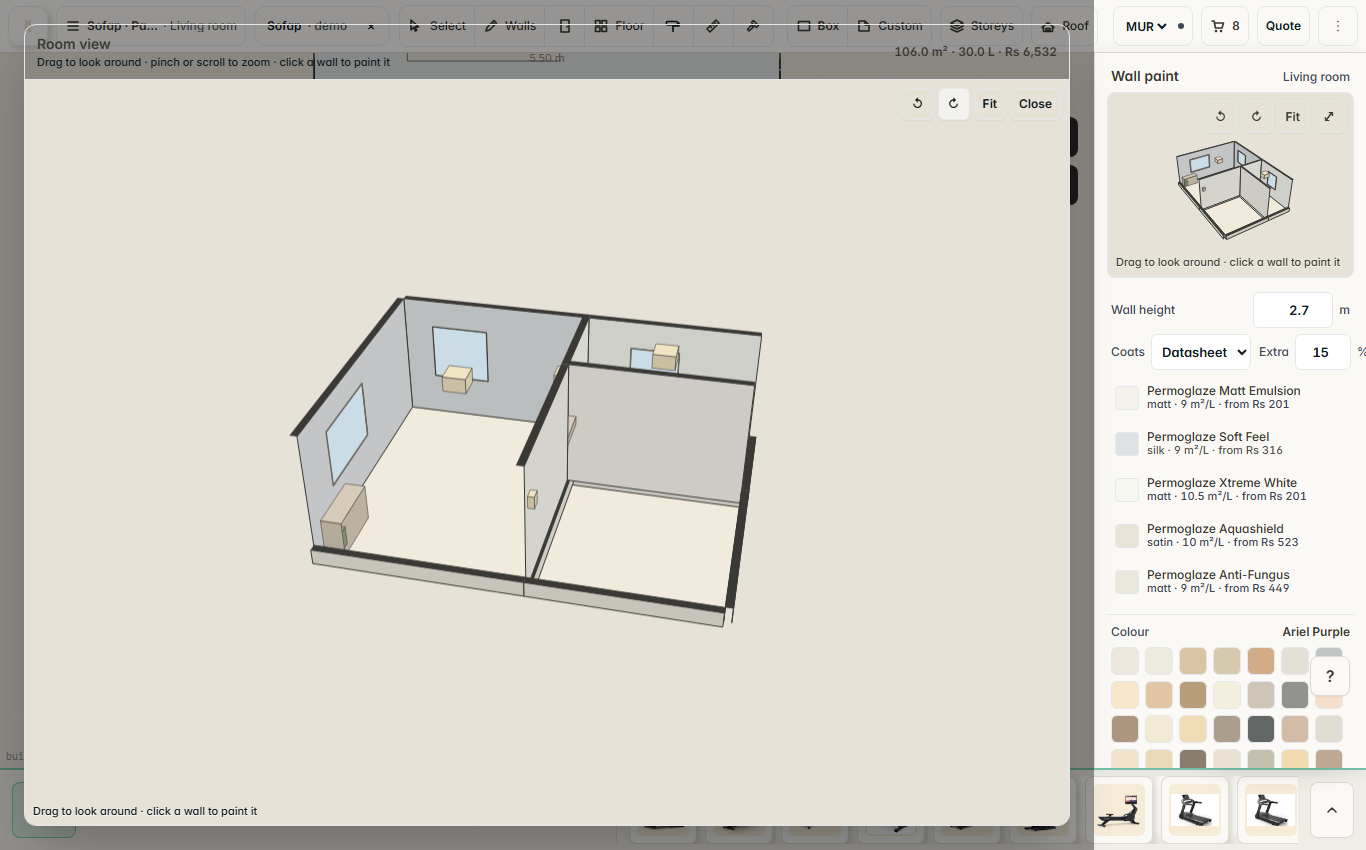
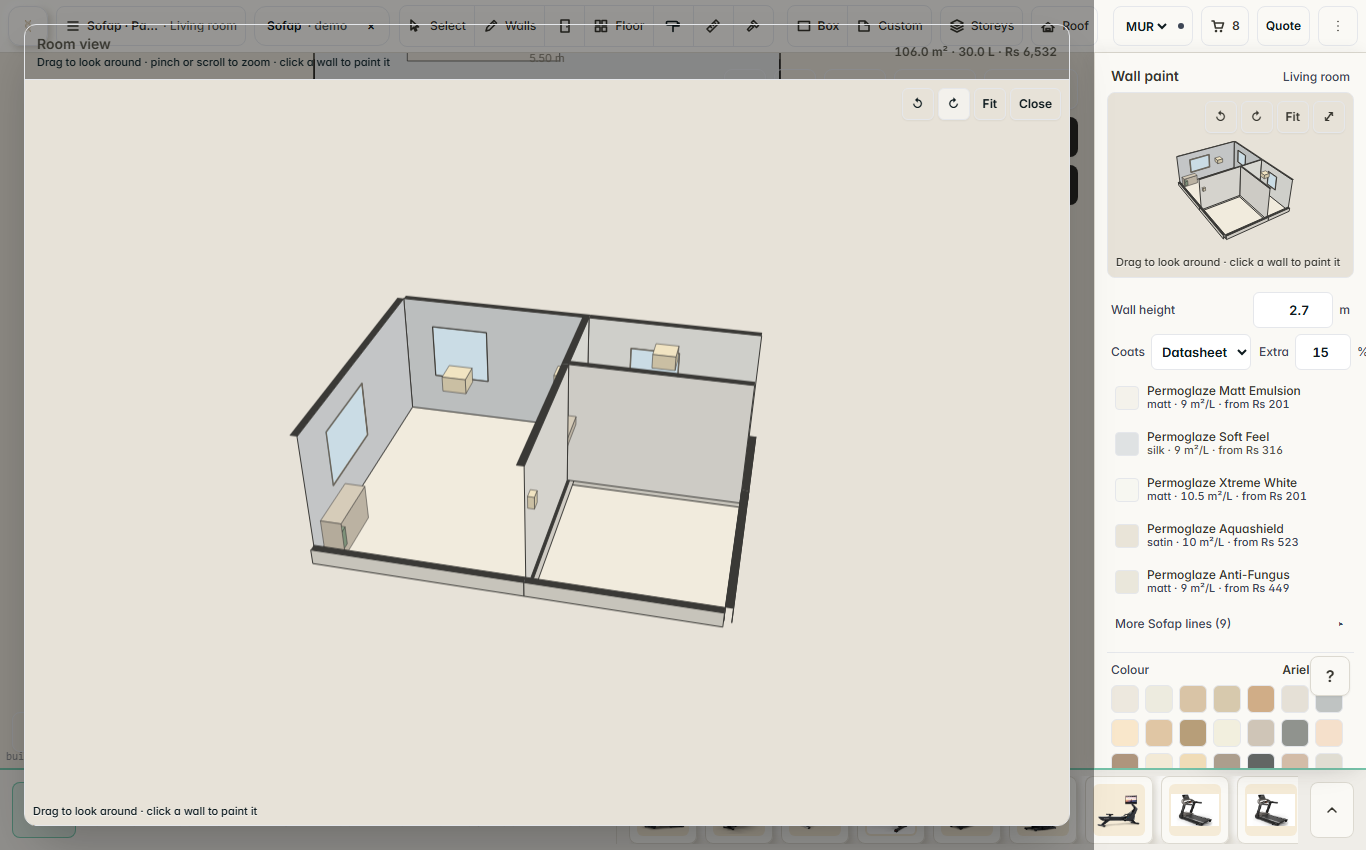
feat(designer): nine more Sofap lines from the TDS + store (VIP Satin, Permotop, Multi-Task, Ultra Matt, Anti-Bacterial, Flexible Acrylic, Aqua Gloss, Tough Guard, Heat Guard), featured short list + More lines
Claude-Session: https://claude.ai/code/session_014BFSNfZeTU3tRrHYzUs8b6

Changed region(s): [[0.7994, 0.7341, 0.9839, 0.9176]]

diff --git a/src/data/wallPaints.ts b/src/data/wallPaints.ts
@@ -103,8 +103,10 @@ export interface WallPaint {
   /** Product page / photo, for the panel. Never hot-linked into the plan. */
   product_url?: string;
   image_url?: string;
-  finish: 'matt' | 'silk' | 'satin' | 'gloss' | 'textured';
+  finish: 'matt' | 'silk' | 'satin' | 'gloss' | 'smooth' | 'textured';
   use: 'interior' | 'exterior' | 'both';
+  /** Shown in the panel's short list; the rest sit behind "More lines". */
+  featured?: boolean;
   /** m² covered by ONE litre in ONE coat (datasheet spread-rate midpoint). */
   coverage_m2_per_l: number;
   /** The datasheet's spread-rate range, when it publishes one. */
@@ -172,13 +174,14 @@ export const WALL_PAINTS: WallPaint[] = [
     name: 'Permoglaze Matt Emulsion',
     brand: 'Permoglaze (Sofap)',
     brandId: 'sofap',
+    featured: true,
     finish: 'matt',
-    use: 'interior',
+    use: 'both', // TDS Rev 006: interior and exterior
     coverage_m2_per_l: 9,
     coverage_low_m2_per_l: 8,
     coverage_high_m2_per_l: 10,
     recommended_coats: 3,
-    coats_source: 'Sofap TDS Rev 006: "3 coats are recommended for optimum performance"',
+    coats_source: 'Sofap TDS Rev 006 (08 Dec 2022): "3 coats are recommended for optimum performance"',
     priced_at: SOFAP_PRICED_AT,
     vat_inclusive: true,
     // Ready-mixed white: EMULSION BRILLIANT WHITE (EPWHI001/005/020).
@@ -207,6 +210,7 @@ export const WALL_PAINTS: WallPaint[] = [
     name: 'Permoglaze Soft Feel',
     brand: 'Permoglaze (Sofap)',
     brandId: 'sofap',
+    featured: true,
     finish: 'silk', // Sofap's velvet-sheen washable line (Eco-Label MS 189)
     use: 'interior',
     coverage_m2_per_l: 9,
@@ -241,6 +245,7 @@ export const WALL_PAINTS: WallPaint[] = [
     name: 'Permoglaze Xtreme White',
     brand: 'Permoglaze (Sofap)',
     brandId: 'sofap',
+    featured: true,
     finish: 'matt',
     use: 'interior',
     coverage_m2_per_l: 10.5,
@@ -265,13 +270,14 @@ export const WALL_PAINTS: WallPaint[] = [
     name: 'Permoglaze Aquashield',
     brand: 'Permoglaze (Sofap)',
     brandId: 'sofap',
+    featured: true,
     finish: 'satin', // velvety low-sheen exterior
     use: 'exterior',
     coverage_m2_per_l: 10,
     coverage_low_m2_per_l: 10,
     coverage_high_m2_per_l: 12,
     recommended_coats: 3,
-    coats_source: 'Sofap TDS Rev 005: three coats; spreading rate ±10 m²/L/coat',
+    coats_source: 'Sofap TDS Rev 005 (24 Jul 2019): "A solid finish is obtained with 3 coats"; spreading rate ±10 m²/L/coat',
     priced_at: SOFAP_PRICED_AT,
     vat_inclusive: true,
     tins: [
@@ -299,13 +305,14 @@ export const WALL_PAINTS: WallPaint[] = [
     name: 'Permoglaze Anti-Fungus',
     brand: 'Permoglaze (Sofap)',
     brandId: 'sofap',
+    featured: true,
     finish: 'matt',
-    use: 'exterior', // TDS Rev 004: "Recommended for exterior use only"
+    use: 'exterior', // sofap.mu lists it under exterior; "concrete surfaces in very humid regions"
     coverage_m2_per_l: 9,
     coverage_low_m2_per_l: 8,
     coverage_high_m2_per_l: 10,
-    recommended_coats: 3,
-    coats_source: 'Sofap TDS Rev 004: three coats',
+    recommended_coats: 2,
+    coats_source: 'Sofap TDS Rev 004 (03 Aug 2017) states no coat count; 2 = standard practice. Pre-treat with Biocidal Wall Wash + Fungicidal Treatment',
     priced_at: SOFAP_PRICED_AT,
     vat_inclusive: true,
     tins: [
@@ -327,6 +334,228 @@ export const WALL_PAINTS: WallPaint[] = [
       `${SOFAP_STORE}antifungus-medium/`,
       `${SOFAP_STORE}antifungus-basic/`,
     ],
+  },
+  // ---- the rest of the Sofap decorative range (TDS + store, 2026-09-14) ----
+  {
+    id: 'permoglaze-vip-satin',
+    name: 'Permoglaze VIP Satin',
+    brand: 'Permoglaze (Sofap)',
+    brandId: 'sofap',
+    finish: 'satin',
+    use: 'interior',
+    coverage_m2_per_l: 9,
+    coverage_low_m2_per_l: 8,
+    coverage_high_m2_per_l: 10,
+    recommended_coats: 3,
+    coats_source: 'Sofap TDS Rev 004 (03 Aug 2017): "3 coats are recommended for optimum performance"',
+    priced_at: SOFAP_PRICED_AT,
+    vat_inclusive: true,
+    // washable silk-sheen interior; sofap.mu web table says 6–7 m²/L, the TDS 8–10 is used. Coverage: https://sofap.mu/wp-content/uploads/2021/11/VIP-SATIN_TDS_ENG.pdf
+    tins: [{ sizeL: 1, priceMur: 310.5 }, { sizeL: 5, priceMur: 1345.5 }, { sizeL: 20, priceMur: 5244 }],
+    tintBases: [
+      sofapBase('pastel', [{ sizeL: 1, priceMur: 327.75 }, { sizeL: 5, priceMur: 1443.25 }, { sizeL: 20, priceMur: 5669.5 }]),
+      sofapBase('medium', [{ sizeL: 1, priceMur: 448.5 }, { sizeL: 5, priceMur: 2006.75 }, { sizeL: 20, priceMur: 7883.25 }]),
+      sofapBase('basic', [{ sizeL: 1, priceMur: 563.5 }, { sizeL: 5, priceMur: 2553 }, { sizeL: 20, priceMur: 10091.25 }]),
+    ],
+    hex: '#EFECE4',
+    product_url: 'https://www.sofaponlinestore.mu/product/vip-satin-white/',
+    source_urls: [`${SOFAP_STORE}vip-satin-white/`, `${SOFAP_STORE}vip-satin-pastel/`, `${SOFAP_STORE}vip-satin-medium/`, `${SOFAP_STORE}vip-satin-basic/`, 'https://sofap.mu/wp-content/uploads/2021/11/VIP-SATIN_TDS_ENG.pdf'],
+  },
+  {
+    id: 'permotop',
+    name: 'Permotop',
+    brand: 'Permoglaze (Sofap)',
+    brandId: 'sofap',
+    finish: 'matt',
+    use: 'both',
+    coverage_m2_per_l: 10,
+    coverage_low_m2_per_l: 10,
+    coverage_high_m2_per_l: 10,
+    recommended_coats: 2,
+    coats_source: 'Sofap TDS Rev 006 (24 Jul 2019) states no coat count; 2 = standard practice',
+    priced_at: SOFAP_PRICED_AT,
+    vat_inclusive: true,
+    // semi-humid, humid and coastal regions. Coverage: https://sofap.mu/wp-content/uploads/2021/11/PERMOTOP_TDS_ENG-Rev-06.pdf
+    tins: [{ sizeL: 1, priceMur: 396.75 }, { sizeL: 5, priceMur: 1759.5 }, { sizeL: 20, priceMur: 6877 }],
+    tintBases: [
+      sofapBase('pastel', [{ sizeL: 1, priceMur: 431.25 }, { sizeL: 5, priceMur: 1903.25 }, { sizeL: 20, priceMur: 7457.75 }]),
+      sofapBase('medium', [{ sizeL: 1, priceMur: 523.25 }, { sizeL: 5, priceMur: 2357.5 }, { sizeL: 20, priceMur: 9292 }]),
+      sofapBase('basic', [{ sizeL: 1, priceMur: 626.75 }, { sizeL: 5, priceMur: 2811.75 }, { sizeL: 20, priceMur: 11126.25 }]),
+    ],
+    hex: '#ECE9E0',
+    product_url: 'https://www.sofaponlinestore.mu/product/permotop-white/',
+    source_urls: [`${SOFAP_STORE}permotop-white/`, `${SOFAP_STORE}permotop-pastel/`, `${SOFAP_STORE}permotop-medium/`, `${SOFAP_STORE}permotop-basic/`, 'https://sofap.mu/wp-content/uploads/2021/11/PERMOTOP_TDS_ENG-Rev-06.pdf'],
+  },
+  {
+    id: 'permoglaze-multi-task',
+    name: 'Permoglaze Multi-Task',
+    brand: 'Permoglaze (Sofap)',
+    brandId: 'sofap',
+    finish: 'smooth',
+    use: 'both',
+    coverage_m2_per_l: 10,
+    coverage_low_m2_per_l: 10,
+    coverage_high_m2_per_l: 10,
+    recommended_coats: 3,
+    coats_source: 'Sofap TDS Rev 006 (11 Oct 2022): "3 coats are recommended for best performance"',
+    priced_at: SOFAP_PRICED_AT,
+    vat_inclusive: true,
+    // all-purpose acrylic: metal, wood, concrete, plaster, PVC. Coverage: https://sofap.mu/wp-content/uploads/2023/05/MULTI-TASK_TDS_ENG_Oct-2022.pdf
+    tins: [{ sizeL: 1, priceMur: 500.25 }, { sizeL: 5, priceMur: 2294.25 }, { sizeL: 20, priceMur: 9165.5 }],
+    tintBases: [
+      sofapBase('pastel', [{ sizeL: 1, priceMur: 506 }, { sizeL: 5, priceMur: 2305.75 }, { sizeL: 20, priceMur: 9228.75 }]),
+      sofapBase('medium', [{ sizeL: 1, priceMur: 586.5 }, { sizeL: 5, priceMur: 2714 }, { sizeL: 20, priceMur: 10838.75 }]),
+      sofapBase('basic', [{ sizeL: 1, priceMur: 672.75 }, { sizeL: 5, priceMur: 3151 }, { sizeL: 20, priceMur: 12604 }]),
+    ],
+    hex: '#EBE9E3',
+    product_url: 'https://www.sofaponlinestore.mu/product/multi-task-white/',
+    source_urls: [`${SOFAP_STORE}multi-task-white/`, `${SOFAP_STORE}multi-task-pastel/`, `${SOFAP_STORE}multi-task-medium/`, `${SOFAP_STORE}multi-task-basic/`, 'https://sofap.mu/wp-content/uploads/2023/05/MULTI-TASK_TDS_ENG_Oct-2022.pdf'],
+  },
+  {
+    id: 'permoglaze-ultra-matt',
+    name: 'Permoglaze Ultra Matt (Breatheasy)',
+    brand: 'Permoglaze (Sofap)',
+    brandId: 'sofap',
+    finish: 'matt',
+    use: 'interior',
+    coverage_m2_per_l: 9,
+    coverage_low_m2_per_l: 8,
+    coverage_high_m2_per_l: 10,
+    recommended_coats: 2,
+    coats_source: 'Sofap TDS Rev 002 (02 Sep 2020) states no coat count; 2 = standard practice',
+    priced_at: SOFAP_PRICED_AT,
+    vat_inclusive: true,
+    // ultra-low VOC, solvent free; sold online as Breatheasy. Coverage: https://sofap.mu/wp-content/uploads/2021/11/Ultra-Matt_ENG-TDS_02-September-2020.pdf
+    tins: [{ sizeL: 1, priceMur: 304.75 }, { sizeL: 5, priceMur: 1299.5 }, { sizeL: 20, priceMur: 4939.25 }],
+    tintBases: [
+      sofapBase('pastel', [{ sizeL: 1, priceMur: 327.75 }, { sizeL: 5, priceMur: 1431.75 }, { sizeL: 20, priceMur: 7279.5 }]),
+      sofapBase('medium', [{ sizeL: 1, priceMur: 431.25 }, { sizeL: 5, priceMur: 1891.75 }, { sizeL: 20, priceMur: 9297.75 }]),
+      sofapBase('basic', [{ sizeL: 1, priceMur: 529 }, { sizeL: 5, priceMur: 2346 }, { sizeL: 20, priceMur: 11839.25 }]),
+    ],
+    hex: '#F1EFE8',
+    product_url: 'https://www.sofaponlinestore.mu/product/breatheasy-ultra-matt-white/',
+    source_urls: [`${SOFAP_STORE}breatheasy-ultra-matt-white/`, `${SOFAP_STORE}breatheasy-ultra-matt-pastel/`, `${SOFAP_STORE}breatheasy-ultra-matt-medium/`, `${SOFAP_STORE}breatheasy-ultra-matt-basic/`, 'https://sofap.mu/wp-content/uploads/2021/11/Ultra-Matt_ENG-TDS_02-September-2020.pdf'],
+  },
+  {
+    id: 'permoglaze-anti-bacterial',
+    name: 'Permoglaze Anti-Bacterial',
+    brand: 'Permoglaze (Sofap)',
+    brandId: 'sofap',
+    finish: 'silk',
+    use: 'interior',
+    coverage_m2_per_l: 9,
+    coverage_low_m2_per_l: 8,
+    coverage_high_m2_per_l: 10,
+    recommended_coats: 3,
+    coats_source: 'Sofap TDS Rev 001 (03 Sep 2020): dilution given for 1st, 2nd and 3rd coat',
+    priced_at: SOFAP_PRICED_AT,
+    vat_inclusive: true,
+    // JIS Z2801 anti-bacterial — hospitals, schools, kitchens. Coverage: https://sofap.mu/wp-content/uploads/2021/11/Anti-Bacterial-Paint-TDS_ENG-03-SEP-2020.pdf
+    tins: [{ sizeL: 1, priceMur: 431.25 }, { sizeL: 5, priceMur: 1886 }, { sizeL: 20, priceMur: 7388.75 }],
+    tintBases: [
+      sofapBase('pastel', [{ sizeL: 1, priceMur: 460 }, { sizeL: 5, priceMur: 2156.25 }, { sizeL: 20, priceMur: 8809 }]),
+      sofapBase('medium', [{ sizeL: 1, priceMur: 603.75 }, { sizeL: 5, priceMur: 2840.5 }, { sizeL: 20, priceMur: 10706.5 }]),
+      sofapBase('basic', [{ sizeL: 1, priceMur: 747.5 }, { sizeL: 5, priceMur: 3519 }, { sizeL: 20, priceMur: 13627.5 }]),
+    ],
+    hex: '#EEEDE6',
+    product_url: 'https://www.sofaponlinestore.mu/product/anti-bacterial-white/',
+    source_urls: [`${SOFAP_STORE}anti-bacterial-white/`, `${SOFAP_STORE}c-m-anti-bacterial-pastel/`, `${SOFAP_STORE}c-m-anti-bacterial-medium/`, `${SOFAP_STORE}c-m-anti-bacterial-basic/`, 'https://sofap.mu/wp-content/uploads/2021/11/Anti-Bacterial-Paint-TDS_ENG-03-SEP-2020.pdf'],
+  },
+  {
+    id: 'permoglaze-flexible-acrylic',
+    name: 'Permoglaze Flexible Acrylic',
+    brand: 'Permoglaze (Sofap)',
+    brandId: 'sofap',
+    finish: 'matt',
+    use: 'exterior',
+    coverage_m2_per_l: 9,
+    coverage_low_m2_per_l: 8,
+    coverage_high_m2_per_l: 10,
+    recommended_coats: 2,
+    coats_source: 'Sofap TDS Rev 004 (03 Aug 2017): "2-3 coats are recommended"; 2 quoted',
+    priced_at: SOFAP_PRICED_AT,
+    vat_inclusive: true,
+    // elastic waterproofing for outside walls and inclined roofs; exterior only. Coverage: https://sofap.mu/wp-content/uploads/2021/11/FLEXIBLE-ACYLIC_TDS_ENG_APR19.pdf
+    tins: [{ sizeL: 5, priceMur: 1891.75 }, { sizeL: 20, priceMur: 7204.75 }],
+    tintBases: [
+      sofapBase('pastel', [{ sizeL: 1, priceMur: 402.5 }, { sizeL: 5, priceMur: 2064.25 }, { sizeL: 20, priceMur: 7365.75 }]),
+      sofapBase('medium', [{ sizeL: 1, priceMur: 460 }, { sizeL: 5, priceMur: 2323 }, { sizeL: 20, priceMur: 8878 }]),
+      sofapBase('basic', [{ sizeL: 1, priceMur: 523.25 }, { sizeL: 5, priceMur: 2673.75 }, { sizeL: 20, priceMur: 10235 }]),
+    ],
+    hex: '#E8E5DC',
+    product_url: 'https://www.sofaponlinestore.mu/product/flex-acry-white/',
+    source_urls: [`${SOFAP_STORE}flex-acry-white/`, `${SOFAP_STORE}flex-acry-pnt-p/`, `${SOFAP_STORE}flex-acry-pnt-medium/`, `${SOFAP_STORE}flex-acry-pnt-b/`, 'https://sofap.mu/wp-content/uploads/2021/11/FLEXIBLE-ACYLIC_TDS_ENG_APR19.pdf'],
+  },
+  {
+    id: 'permoglaze-aqua-gloss',
+    name: 'Permoglaze Aqua Gloss',
+    brand: 'Permoglaze (Sofap)',
+    brandId: 'sofap',
+    finish: 'gloss',
+    use: 'both',
+    coverage_m2_per_l: 11,
+    coverage_low_m2_per_l: 10,
+    coverage_high_m2_per_l: 12,
+    recommended_coats: 2,
+    coats_source: 'Sofap TDS Rev 004 (03 Aug 2017) states no coat count; 2 = standard practice',
+    priced_at: SOFAP_PRICED_AT,
+    vat_inclusive: true,
+    // water-based gloss for wood, concrete and metal. Coverage: https://sofap.mu/wp-content/uploads/2021/11/Aqua-Gloss_TDS_ENG_APR2019.pdf
+    tins: [{ sizeL: 1, priceMur: 523.25 }, { sizeL: 5, priceMur: 2443.75 }],
+    tintBases: [
+      sofapBase('pastel', [{ sizeL: 1, priceMur: 546.25 }, { sizeL: 5, priceMur: 2564.5 }]),
+      sofapBase('medium', [{ sizeL: 1, priceMur: 609.5 }, { sizeL: 5, priceMur: 2944 }]),
+      sofapBase('basic', [{ sizeL: 1, priceMur: 701.5 }, { sizeL: 5, priceMur: 3404 }]),
+    ],
+    hex: '#F0EFEA',
+    product_url: 'https://www.sofaponlinestore.mu/product/aqua-gloss-emulsion-white/',
+    source_urls: [`${SOFAP_STORE}aqua-gloss-emulsion-white/`, `${SOFAP_STORE}aqua-gloss-emulsion-pastel/`, `${SOFAP_STORE}aqua-gloss-emulsion-medium/`, `${SOFAP_STORE}aqua-gloss-emulsion-basic/`, 'https://sofap.mu/wp-content/uploads/2021/11/Aqua-Gloss_TDS_ENG_APR2019.pdf'],
+  },
+  {
+    id: 'permoglaze-tough-guard',
+    name: 'Permoglaze Tough Guard',
+    brand: 'Permoglaze (Sofap)',
+    brandId: 'sofap',
+    finish: 'silk',
+    use: 'both',
+    coverage_m2_per_l: 8,
+    coverage_low_m2_per_l: 8,
+    coverage_high_m2_per_l: 8,
+    recommended_coats: 2,
+    coats_source: 'Sofap TDS Rev 003 (11 Oct 2022) states no coat count; 2 = standard practice',
+    priced_at: SOFAP_PRICED_AT,
+    vat_inclusive: true,
+    // hard-wearing silk sheen for concrete, plaster, wood and metal. Coverage: https://sofap.mu/wp-content/uploads/2023/05/Tough-Guard-TDS-Final_Oct-2022.pdf
+    tins: [{ sizeL: 1, priceMur: 609.5 }, { sizeL: 5, priceMur: 2662.25 }, { sizeL: 20, priceMur: 10482.25 }],
+    tintBases: [
+      sofapBase('pastel', [{ sizeL: 1, priceMur: 649.75 }, { sizeL: 5, priceMur: 2846.25 }, { sizeL: 20, priceMur: 10723.75 }]),
+      sofapBase('medium', [{ sizeL: 1, priceMur: 678.5 }, { sizeL: 5, priceMur: 2972.75 }, { sizeL: 20, priceMur: 11758.75 }]),
+      sofapBase('basic', [{ sizeL: 1, priceMur: 747.5 }, { sizeL: 5, priceMur: 3283.25 }, { sizeL: 20, priceMur: 13012.25 }]),
+    ],
+    hex: '#ECEAE2',
+    product_url: 'https://www.sofaponlinestore.mu/product/toughguard/',
+    source_urls: [`${SOFAP_STORE}toughguard/`, `${SOFAP_STORE}c-m-toughguard-pastel/`, `${SOFAP_STORE}c-m-toughguard-medium/`, `${SOFAP_STORE}c-m-toughguard-basic/`, 'https://sofap.mu/wp-content/uploads/2023/05/Tough-Guard-TDS-Final_Oct-2022.pdf'],
+  },
+  {
+    id: 'permoglaze-heat-guard',
+    name: 'Permoglaze Heat Guard',
+    brand: 'Permoglaze (Sofap)',
+    brandId: 'sofap',
+    finish: 'smooth',
+    use: 'exterior',
+    coverage_m2_per_l: 8,
+    coverage_low_m2_per_l: 7,
+    coverage_high_m2_per_l: 9,
+    recommended_coats: 3,
+    coats_source: 'Sofap TDS Rev 001 (07 Sep 2022): "3 coats are recommended for good performance"',
+    priced_at: SOFAP_PRICED_AT,
+    vat_inclusive: true,
+    tintable: false,
+    // heat-reflective (85 % TSR) for facades and roofs; white only. Coverage: https://sofap.mu/wp-content/uploads/2023/03/HEAT-GUARD_TDS_ENG_27-FEB-2023.pdf
+    tins: [{ sizeL: 5, priceMur: 1914.75 }, { sizeL: 20, priceMur: 7653.25 }],
+    hex: '#F5F5F2',
+    product_url: 'https://www.sofaponlinestore.mu/product/permoglaze-heat-guard/',
+    source_urls: [`${SOFAP_STORE}permoglaze-heat-guard/`, 'https://sofap.mu/wp-content/uploads/2023/03/HEAT-GUARD_TDS_ENG_27-FEB-2023.pdf'],
   },
 ];
 

diff --git a/src/components/TopBar.tsx b/src/components/TopBar.tsx
@@ -859,6 +859,8 @@ export function TopBar({
       ? paintsForBrand(paintBrand?.id ?? paintBrands[0]?.id ?? paintBrandId)
       : WALL_PAINTS;
   const [paintBreakdownOpen, setPaintBreakdownOpen] = useState(false);
+  // The short list (featured lines) by default; the rest behind "More lines".
+  const [paintMoreLines, setPaintMoreLines] = useState(false);
   // The brand's full tinting chart (Sofap: 1,050 Colour Match shades) —
   // loaded on demand, filtered by family + search.
   const [paintChartOpen, setPaintChartOpen] = useState(false);
@@ -2471,8 +2473,11 @@ export function TopBar({
                 </div>
               )}
 
-              {/* The products — sourced from the brand's own listings (see wallPaints.ts). */}
-              {wallPaintsShown.map((p) => {
+              {/* The products — sourced from the brand's own listings (see wallPaints.ts).
+                  Featured lines first; the rest of the range one tap away. */}
+              {wallPaintsShown
+                .filter((p) => paintMoreLines || p.featured || !wallPaintsShown.some((q) => q.featured) || p.id === wallPaintSel.id)
+                .map((p) => {
                 const on = wallPaintSel.id === p.id;
                 return (
                   <button
@@ -2500,6 +2505,23 @@ export function TopBar({
                   </button>
                 );
               })}
+              {wallPaintsShown.some((q) => q.featured) && wallPaintsShown.some((q) => !q.featured) && (
+                <button
+                  type="button"
+                  onClick={() => setPaintMoreLines((v) => !v)}
+                  aria-expanded={paintMoreLines}
+                  data-testid="wallpaint-more-lines"
+                  className="flex min-h-[36px] w-full items-center justify-between px-2 text-[12px] font-medium"
+                  style={{ color: CHROME_TEXT_2 }}
+                >
+                  <span>
+                    {paintMoreLines
+                      ? 'Fewer lines'
+                      : `More ${paintBrand?.name ?? ''} lines (${wallPaintsShown.filter((q) => !q.featured).length})`}
+                  </span>
+                  <span aria-hidden="true">{paintMoreLines ? '▾' : '▸'}</span>
+                </button>
+              )}
 
               {/* Colour (2026-09-14): the brand's tints for the chosen line,
                   plus any custom hex — "tint to match" at the counter. A

diff --git a/src/designer/__tests__/wallPaintCalc.test.ts b/src/designer/__tests__/wallPaintCalc.test.ts
@@ -149,7 +149,11 @@ describe('wall paint measurement', () => {
         expect(t.priceMur).toBeGreaterThan(0);
       }
     }
-    expect(WALL_PAINTS).toHaveLength(5);
+    expect(WALL_PAINTS.length).toBeGreaterThanOrEqual(5);
+    for (const id of ['permoglaze-matt-emulsion', 'permoglaze-soft-feel', 'permoglaze-xtreme-white', 'permoglaze-aquashield', 'permoglaze-anti-fungus']) {
+      expect(findWallPaintById(id)?.featured, id).toBe(true);
+    }
+    expect(new Set(WALL_PAINTS.map((p) => p.id)).size).toBe(WALL_PAINTS.length);
   });
 });
 
